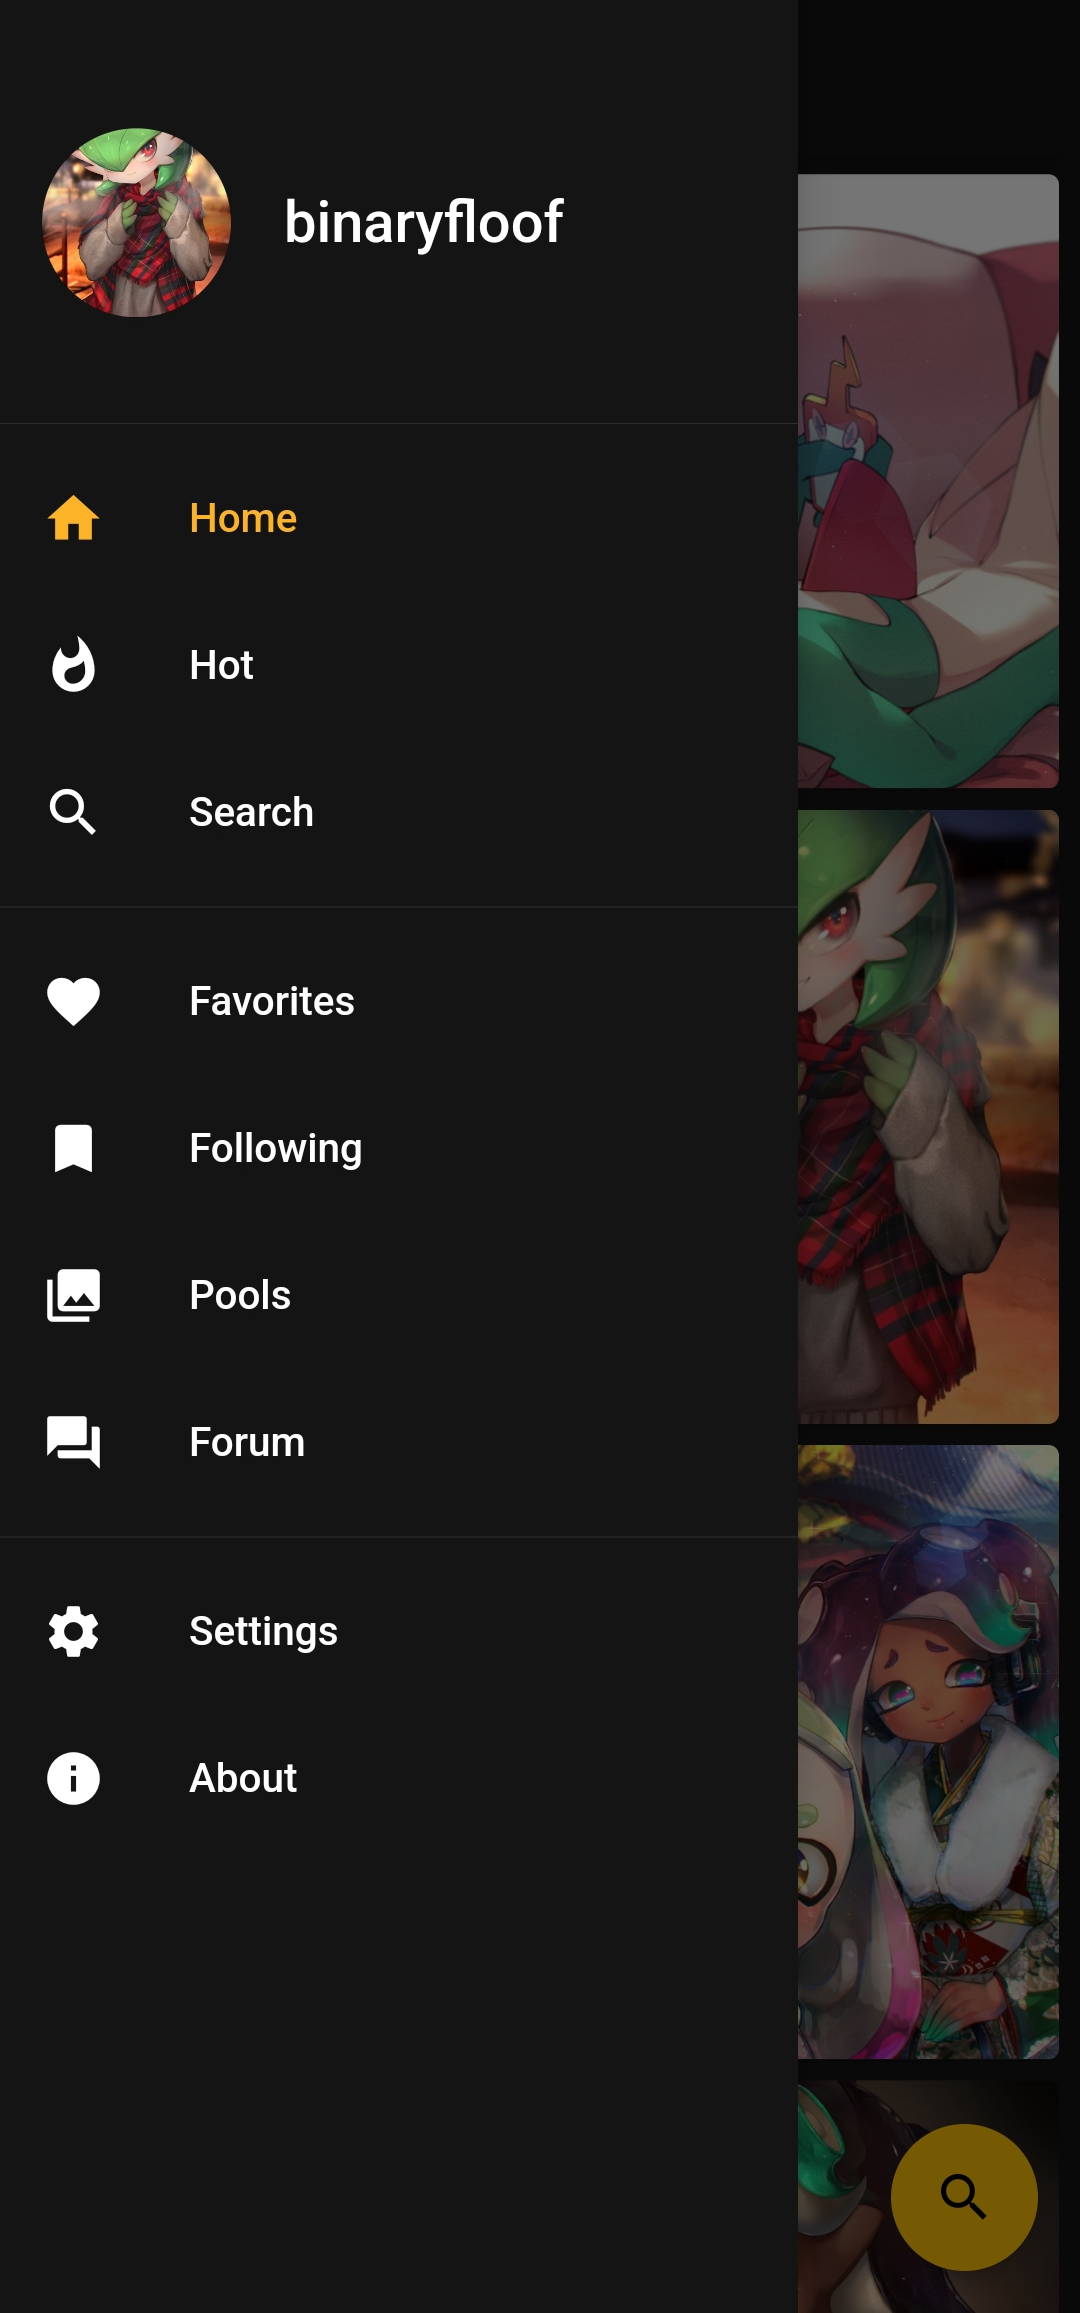
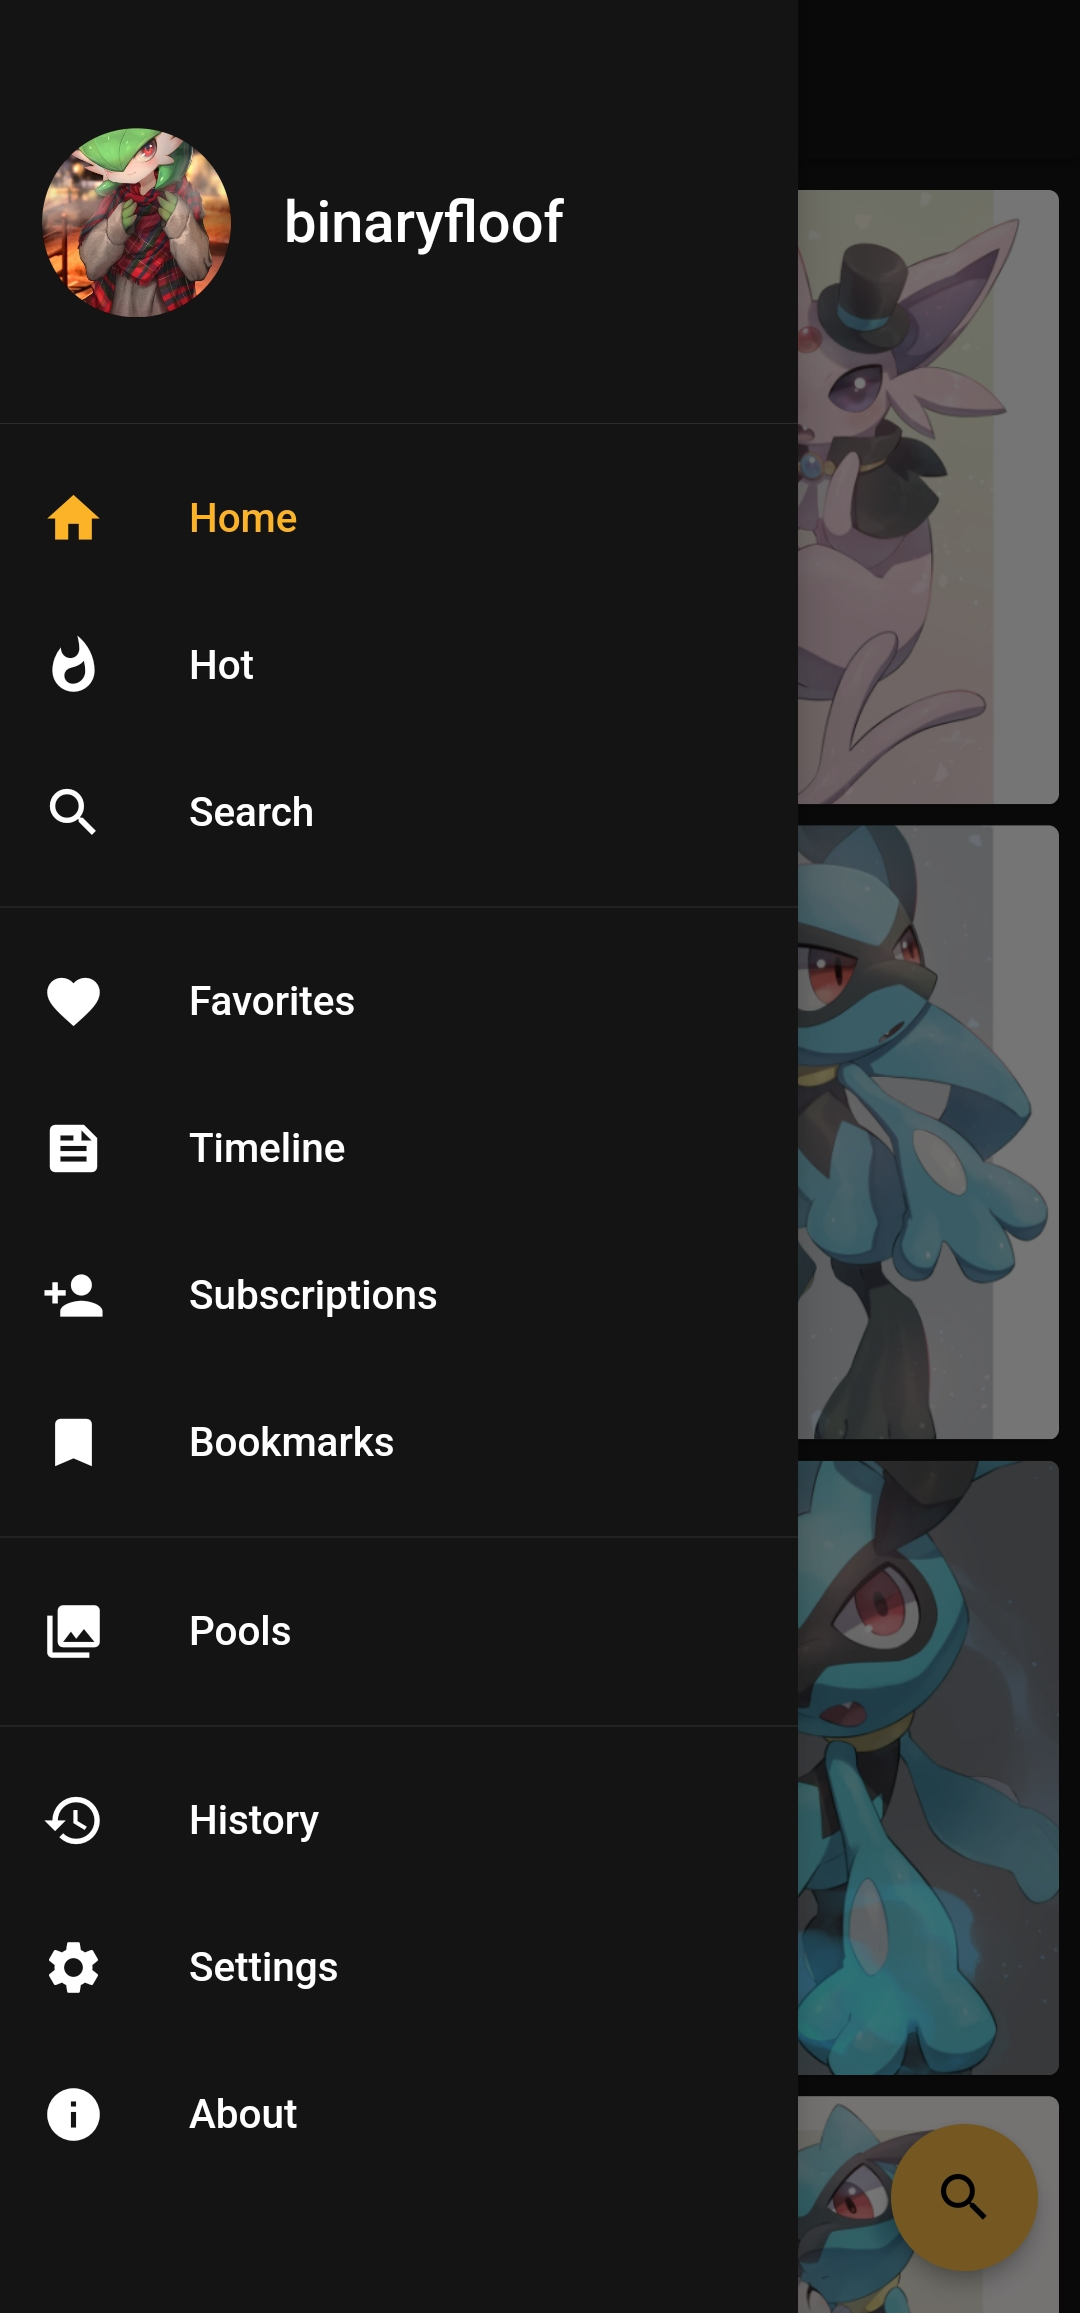
updated screenshots

diff --git a/lib/info.dart b/lib/info.dart
@@ -15,13 +15,14 @@ const String appIcon = 'app-icon.png';
 const String screenshotDir = 'screenshots/';
 
 const List<String> screenshotNames = [
-  'search',
+  'home',
   'detail',
   'drawer',
-  'blacklist',
+  'denylist',
+  'timeline',
   'settings',
+  'subscriptions',
   'forum',
-  'following',
 ];
 
 const List<FeatureItem> features = [
